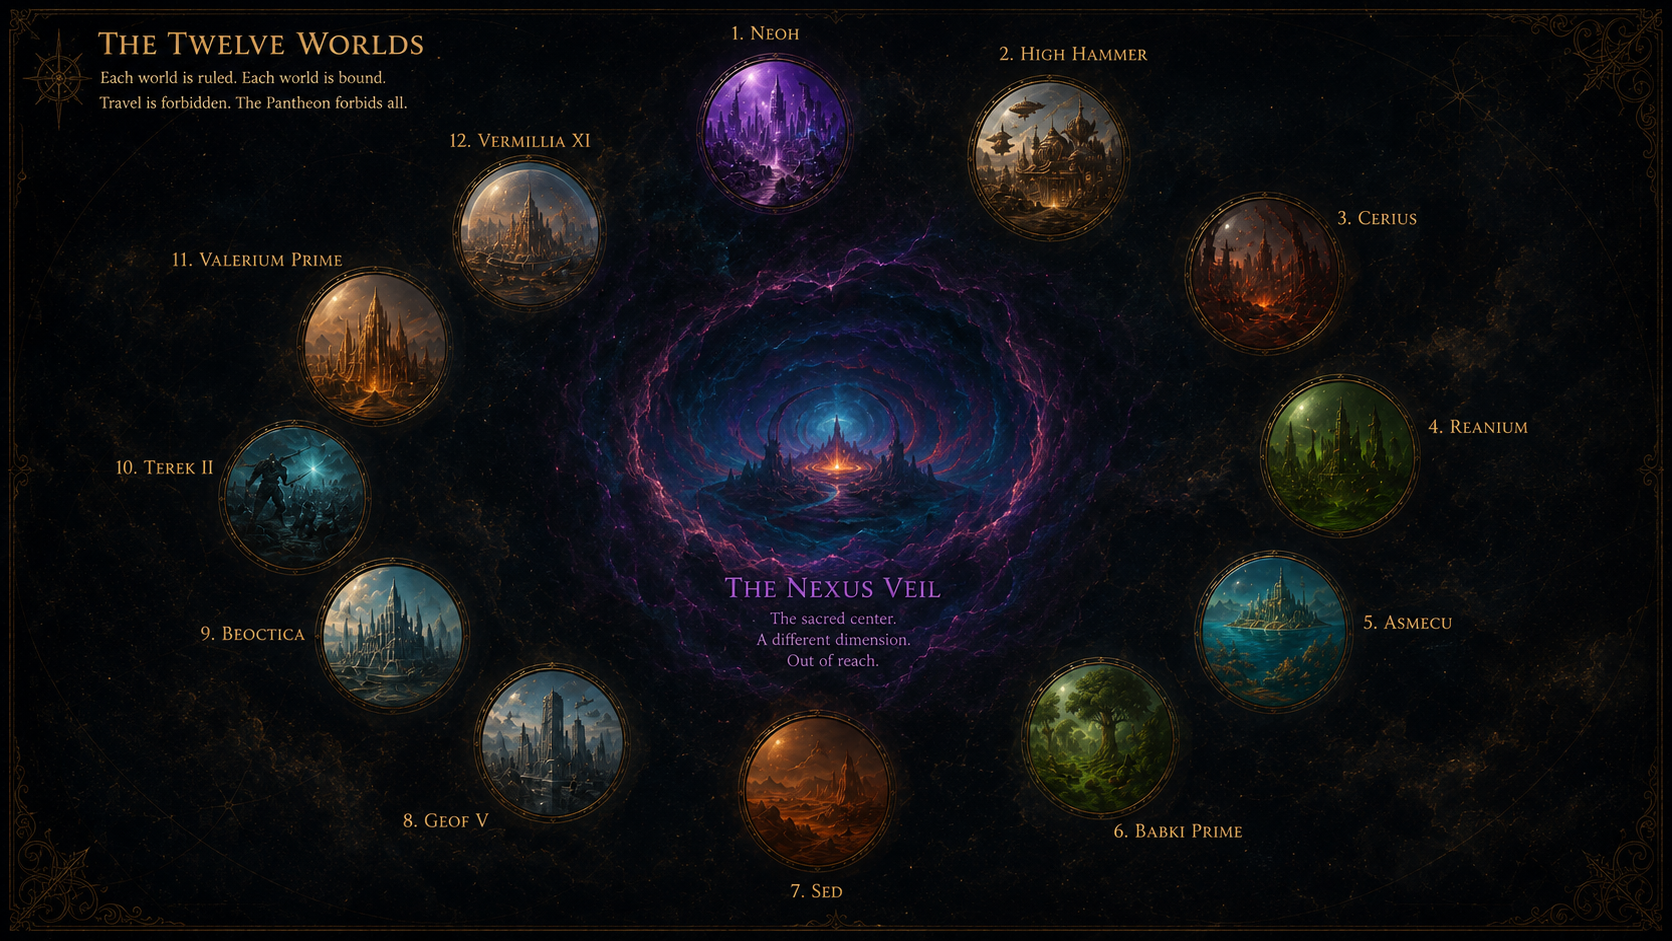
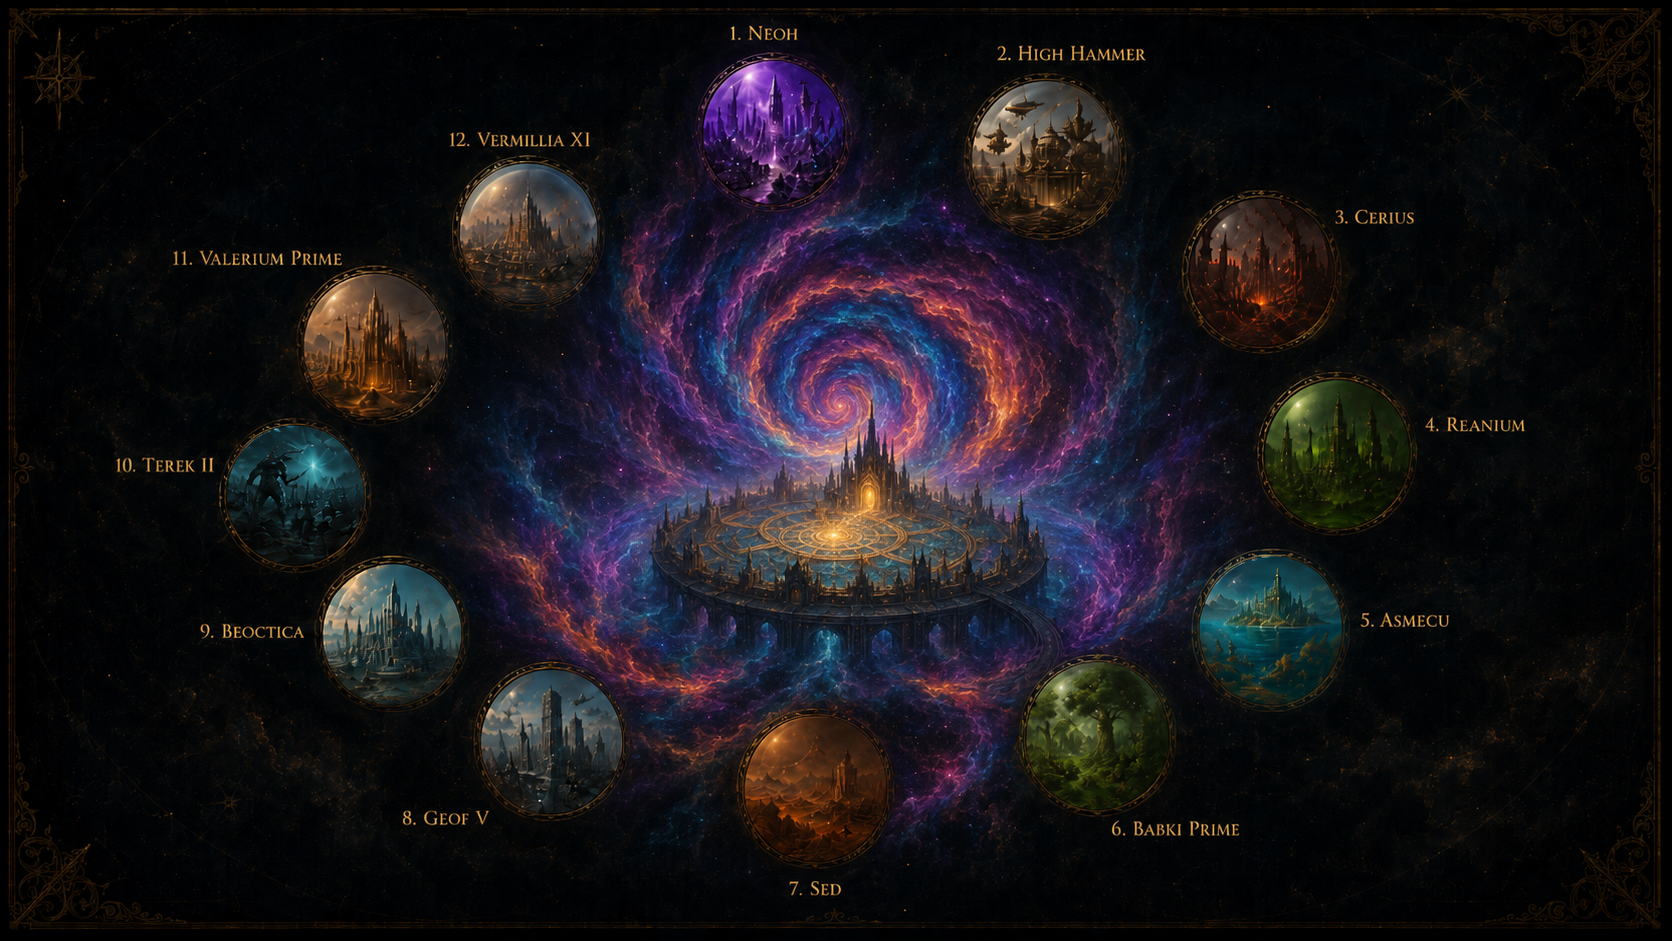
Calibrate the interactive worlds atlas
Replace the atlas artwork with the improved supplied source and tune every medallion coordinate against its native 1672 by 941 pixel grid. The visual QA overlay confirmed all twelve hit regions and locked-world masks now sit on their intended circular medallions.

Remove the mismatched SVG/image scaling path that caused the original drift: the stage now keeps both layers in one coordinate box, the SVG explicitly uses preserveAspectRatio none, and parallax no longer crops the atlas border. Version the artwork URL and public CSS/Worlds JavaScript references so the immutable asset cache cannot retain the old map or geometry.

Verified worlds.js with node --check, inspected a generated coordinate-overlay against the source atlas, confirmed the replacement image dimensions and reduced byte size, and ran git diff --check.

diff --git a/js/worlds.js b/js/worlds.js
@@ -19,18 +19,18 @@ document.addEventListener('DOMContentLoaded', function () {
   // World Control sort order, so content staff only need to manage a world's
   // normal status. Unlocking a world automatically activates its medallion.
   var ATLAS_POINTS = {
-    1: { x: 773, y: 140, r: 77 },
-    2: { x: 1044, y: 164, r: 76 },
-    3: { x: 1272, y: 278, r: 76 },
-    4: { x: 1351, y: 451, r: 76 },
-    5: { x: 1283, y: 630, r: 76 },
-    6: { x: 1094, y: 735, r: 76 },
-    7: { x: 796, y: 778, r: 76 },
-    8: { x: 531, y: 714, r: 76 },
-    9: { x: 380, y: 639, r: 76 },
-    10: { x: 280, y: 500, r: 76 },
-    11: { x: 368, y: 350, r: 76 },
-    12: { x: 530, y: 232, r: 76 }
+    1: { x: 773, y: 130, r: 77 },
+    2: { x: 1044, y: 156, r: 77 },
+    3: { x: 1272, y: 270, r: 77 },
+    4: { x: 1351, y: 451, r: 77 },
+    5: { x: 1283, y: 632, r: 77 },
+    6: { x: 1094, y: 735, r: 77 },
+    7: { x: 796, y: 783, r: 77 },
+    8: { x: 531, y: 712, r: 77 },
+    9: { x: 380, y: 635, r: 77 },
+    10: { x: 280, y: 493, r: 77 },
+    11: { x: 368, y: 345, r: 77 },
+    12: { x: 530, y: 232, r: 77 }
   };
 
   function escapeHtml(value) {
@@ -235,7 +235,7 @@ document.addEventListener('DOMContentLoaded', function () {
         }).join('') +
       '</defs>';
     var lockedArtwork = locked.map(function (world) {
-      return '<image href="images/twelve-worlds-atlas.png" x="0" y="0" width="1672" height="941" preserveAspectRatio="none" clip-path="url(#world-atlas-clip-' + escapeHtml(world.slug) + ')" filter="url(#world-atlas-lock-filter)"></image>';
+      return '<image href="images/twelve-worlds-atlas.png?v=2" x="0" y="0" width="1672" height="941" preserveAspectRatio="none" clip-path="url(#world-atlas-clip-' + escapeHtml(world.slug) + ')" filter="url(#world-atlas-lock-filter)"></image>';
     }).join('');
     var hotspots = mappedWorlds.map(function (world) {
       var point = ATLAS_POINTS[world.sort_order];

diff --git a/worlds.html b/worlds.html
@@ -23,7 +23,7 @@
 <link rel="icon" type="image/png" sizes="16x16" href="favicon-16x16.png">
 <link rel="apple-touch-icon" sizes="180x180" href="apple-touch-icon.png">
 <link rel="icon" href="favicon.ico">
-<link rel="stylesheet" href="css/public.css?v=198">
+<link rel="stylesheet" href="css/public.css?v=199">
 </head>
 <body>
 
@@ -86,8 +86,8 @@
       <div class="world-atlas-shell" id="world-atlas" aria-labelledby="world-atlas-title">
         <div class="world-atlas-stage" id="world-atlas-stage">
           <div class="world-atlas-pan" id="world-atlas-pan">
-            <img src="images/twelve-worlds-atlas.png" alt="Atlas of the twelve worlds surrounding the Nexus Veil" width="1672" height="941" loading="lazy" decoding="async" fetchpriority="low">
-            <svg class="world-atlas-hotspots" id="world-atlas-hotspots" viewBox="0 0 1672 941" role="group" aria-label="Interactive world atlas"></svg>
+            <img src="images/twelve-worlds-atlas.png?v=2" alt="Atlas of the twelve worlds surrounding the Nexus Veil" width="1672" height="941" loading="lazy" decoding="async" fetchpriority="low">
+            <svg class="world-atlas-hotspots" id="world-atlas-hotspots" viewBox="0 0 1672 941" preserveAspectRatio="none" role="group" aria-label="Interactive world atlas"></svg>
           </div>
         </div>
         <aside class="world-atlas-info" id="world-atlas-info" aria-live="polite">
@@ -162,6 +162,6 @@
 
 <script src="js/main.js?v=6"></script>
 <script src="js/members.js?v=23"></script>
-<script src="js/worlds.js?v=4"></script>
+<script src="js/worlds.js?v=5"></script>
 </body>
 </html>

diff --git a/css/content.css b/css/content.css
@@ -819,10 +819,10 @@
 }
 .world-atlas-pan {
   position: absolute;
-  inset: -10px;
+  inset: 0;
   --atlas-x: 0px;
   --atlas-y: 0px;
-  transform: translate3d(var(--atlas-x), var(--atlas-y), 0) scale(1.013);
+  transform: translate3d(var(--atlas-x), var(--atlas-y), 0);
   transition: transform 280ms ease-out;
   will-change: transform;
 }

diff --git a/about.html b/about.html
@@ -23,7 +23,7 @@
 <link rel="icon" type="image/png" sizes="16x16" href="favicon-16x16.png">
 <link rel="apple-touch-icon" sizes="180x180" href="apple-touch-icon.png">
 <link rel="icon" href="favicon.ico">
-<link rel="stylesheet" href="css/public.css?v=198">
+<link rel="stylesheet" href="css/public.css?v=199">
 </head>
 <body>
 

diff --git a/books.html b/books.html
@@ -23,7 +23,7 @@
 <link rel="icon" type="image/png" sizes="16x16" href="favicon-16x16.png">
 <link rel="apple-touch-icon" sizes="180x180" href="apple-touch-icon.png">
 <link rel="icon" href="favicon.ico">
-<link rel="stylesheet" href="css/public.css?v=198">
+<link rel="stylesheet" href="css/public.css?v=199">
 </head>
 <body>
 

diff --git a/chapter-one.html b/chapter-one.html
@@ -23,7 +23,7 @@
 <link rel="icon" type="image/png" sizes="16x16" href="favicon-16x16.png">
 <link rel="apple-touch-icon" sizes="180x180" href="apple-touch-icon.png">
 <link rel="icon" href="favicon.ico">
-<link rel="stylesheet" href="css/public.css?v=198">
+<link rel="stylesheet" href="css/public.css?v=199">
 </head>
 <body>
 

diff --git a/css/community-bundle.css b/css/community-bundle.css
@@ -3,5 +3,5 @@
 @import url('base.css?v=172');
 @import url('layout.css?v=172');
 @import url('components.css?v=188');
-@import url('content.css?v=182');
+@import url('content.css?v=183');
 @import url('community.css?v=181');

diff --git a/css/public.css b/css/public.css
@@ -3,4 +3,4 @@
 @import url('base.css?v=172');
 @import url('layout.css?v=172');
 @import url('components.css?v=188');
-@import url('content.css?v=182');
+@import url('content.css?v=183');

diff --git a/css/style.css b/css/style.css
@@ -9,6 +9,6 @@
 @import url('base.css?v=172');
 @import url('layout.css?v=172');
 @import url('components.css?v=188');
-@import url('content.css?v=182');
+@import url('content.css?v=183');
 @import url('community.css?v=179');
 @import url('admin.css?v=205');

diff --git a/index.html b/index.html
@@ -25,7 +25,7 @@
 <link rel="icon" type="image/png" sizes="16x16" href="favicon-16x16.png">
 <link rel="apple-touch-icon" sizes="180x180" href="apple-touch-icon.png">
 <link rel="icon" href="favicon.ico">
-<link rel="stylesheet" href="css/public.css?v=198">
+<link rel="stylesheet" href="css/public.css?v=199">
 </head>
 <body>
 

diff --git a/news-post.html b/news-post.html
@@ -10,7 +10,7 @@
 <link rel="preload" as="style" href="https://fonts.googleapis.com/css2?family=Cinzel:wght@500;600;700&family=Jost:wght@400;500;600&display=swap" onload="this.onload=null;this.rel='stylesheet'">
 <noscript><link href="https://fonts.googleapis.com/css2?family=Cinzel:wght@500;600;700&family=Jost:wght@400;500;600&display=swap" rel="stylesheet"></noscript>
 <link rel="icon" href="favicon.ico">
-<link rel="stylesheet" href="css/public.css?v=198">
+<link rel="stylesheet" href="css/public.css?v=199">
 </head>
 <body>
 <header class="site-header">

diff --git a/news.html b/news.html
@@ -23,7 +23,7 @@
 <link rel="icon" type="image/png" sizes="16x16" href="favicon-16x16.png">
 <link rel="apple-touch-icon" sizes="180x180" href="apple-touch-icon.png">
 <link rel="icon" href="favicon.ico">
-<link rel="stylesheet" href="css/public.css?v=198">
+<link rel="stylesheet" href="css/public.css?v=199">
 </head>
 <body>
 